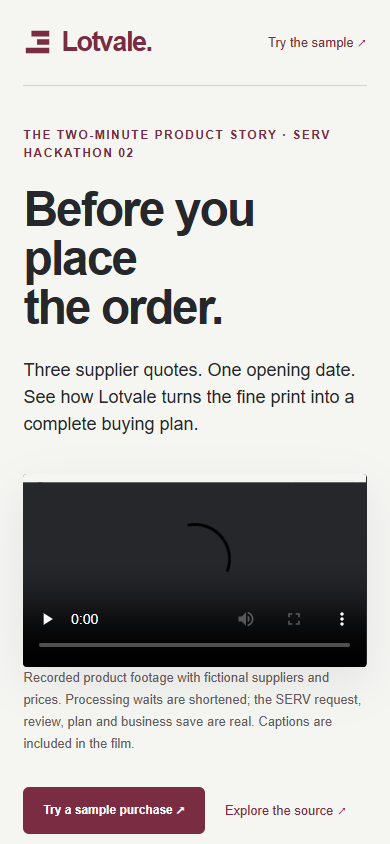
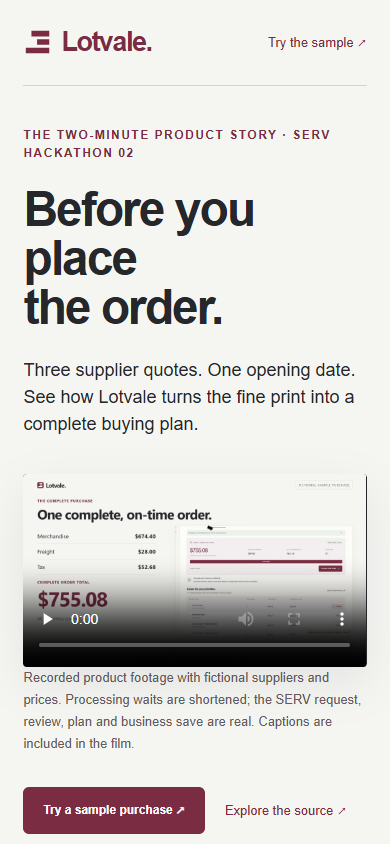
Record verified final production and submission handoff

Changed region(s): [[0.0615, 0.5545, 0.9538, 0.7701]]

diff --git a/reviews/FINAL-JUDGE-REHEARSAL.md b/reviews/FINAL-JUDGE-REHEARSAL.md
@@ -5,33 +5,35 @@ Product checks passed against production application commit 1543a8b, Vercel depl
 ## Product acceptance
 
 - Signed-out sample: complete on-time basket **$755.08**, matching downloaded supplier draft.
-- Date-fresh fixture downloads: two quotes before import, Counter quote generated for today, no-store; invalid kind rejected with400.
-- Actual text-file import and SERV request returned200, four unconfirmed offers, request **chatcmpl-Ek8oqxY0LbrJg3ioDKeMdjVdIzgl6**, model gpt-5.4-mini-2026-03-17.
-- Original quote expanded and terms reviewed; review checkbox initially unchecked; explicit confirmation and Save reviewed quote produced the expected755.08 plan and matching draft/CSV. The provider's four nonverbatim source excerpts were cleared and surfaced as warnings; the complete original text remained available for review. No warning was silently treated as evidence.
-- Backup downloaded, starting fixture restored, actual SERV-backed backup restored, request ID and three quotes preserved; reload rebuilt755.08.
-- Mobile390×844: demo and app both document width390, no horizontal overflow.
+- Date-fresh fixture downloads: two quotes before import, Counter quote generated for today, no-store; invalid kind rejected with HTTP 400.
+- Actual text-file import and SERV request returned HTTP 200, four unconfirmed offers, request **chatcmpl-Ek8oqxY0LbrJg3ioDKeMdjVdIzgl6**, model gpt-5.4-mini-2026-03-17.
+- Original quote expanded and terms reviewed; review checkbox initially unchecked; explicit confirmation and Save reviewed quote produced the expected $755.08 plan and matching draft/CSV. The provider's four nonverbatim source excerpts were cleared and surfaced as warnings; the complete original text remained available for review. No warning was silently treated as evidence.
+- Backup downloaded, starting fixture restored, actual SERV-backed backup restored, request ID and three quotes preserved; reload rebuilt $755.08.
+- Mobile 390×844: demo and app both document width 390, no horizontal overflow.
 - Signed-out business route required login. Verified fictional QA account signed in; actual browser save → purchase overview → reopen recovered the selected draft workflow and same plan. Sign-out preserved the public sample.
 
 Machine-readable checks: [final-judge-rehearsal.json](final-judge-rehearsal.json). This records sequential browser sessions rather than claiming one uninterrupted take. A first business-navigation attempt timed out and logged a failed chunk load; its counter-observation is retained in previousAttempt. A fresh session then completed the business journey with no page errors. Frequency is unknown; this does not establish a general outage or universal reliability.
 
 ## Film and public delivery
 
-[Public film and walkthrough](https://lotvale.vercel.app/demo). Primary streaming file: [Vercel1080p rendition](https://lotvale-demo-video.vercel.app/lotvale-demo-stream.mp4). Master: [27.12MB MP4](https://lotvale-demo-video.vercel.app/lotvale-demo.mp4). Download/source archive: [GitHub Release](https://github.com/ShalyX/lotvale/releases/tag/demo-v1.0.0).
+[Public film and walkthrough](https://lotvale.vercel.app/demo). Primary streaming file: [Vercel 1080p rendition](https://lotvale-demo-video.vercel.app/lotvale-demo-stream.mp4). Master: [27.12MB MP4](https://lotvale-demo-video.vercel.app/lotvale-demo.mp4). Download/source archive: [GitHub Release](https://github.com/ShalyX/lotvale/releases/tag/demo-v1.0.0).
 
-The actual public streaming URL completed **0→120 seconds at rate1**, 1920×1080,3600 decoded frames, ended true, media error0. See [final-film-delivery.json](final-film-delivery.json) and final-film-playing.png. The8.94MB rendition preserves the approved story, timing and motion; full local decode passed and the source-review frame remained legible. Its SHA-256 is1acdfbca013d87d535a9f4ecbc38b7417ed49931a3a2f5dd2df3308bb7e38f45.
+The actual public streaming URL completed **0→120 seconds at rate 1**, 1920×1080, 3600 decoded frames, ended true, media error 0. See [final-film-delivery.json](final-film-delivery.json) and final-film-playing.png. The 8.94 MB rendition preserves the approved story, timing and motion; full local decode passed and the source-review frame remained legible. Its SHA-256 is1acdfbca013d87d535a9f4ecbc38b7417ed49931a3a2f5dd2df3308bb7e38f45.
 
-The master was previously fully decoded and played locally; its checksum is in DEMO.md. GitHub embedded playback timed out in this session, and initial larger-file Vercel playback checks buffered. A64KB range arrived in12.5seconds during a diagnostic. These observations prompted the smaller streaming rendition; they are not a latency benchmark. Production video deployment dpl_5wo9PqggkeTzk3NNM3mWMTUCyTMb was READY. Media assets for the editable source were anonymously downloaded and their SHA-256 verified by demo/scripts/fetch-assets.mjs.
+The master was previously fully decoded and played locally; its checksum is in DEMO.md. GitHub embedded playback timed out in this session, and initial larger-file Vercel playback checks buffered. A 64 KB range arrived in 12.5 seconds during a diagnostic. These observations prompted the smaller streaming rendition; they are not a latency benchmark. Production video deployment dpl_5wo9PqggkeTzk3NNM3mWMTUCyTMb was READY. Media assets for the editable source were anonymously downloaded and their SHA-256 verified by demo/scripts/fetch-assets.mjs.
 
 ## Source and release hygiene
 
-TypeScript,15 planner/export tests and a production build passed from an isolated source snapshot using the installed dependencies. Local clean npm ci attempts failed with ECONNRESET/EIDLETIMEOUT; no local clean-install pass is claimed. Vercel's npm ci installed119 packages and its production build/typecheck passed. The Neon dependency tree emits peer-version warnings, with no change to the previously verified auth behavior.
+TypeScript, 15 planner/export tests and a production build passed from an isolated source snapshot using the installed dependencies. Local clean npm ci attempts failed with ECONNRESET/EIDLETIMEOUT; no local clean-install pass is claimed. Vercel's npm ci installed 119 packages and its production build/typecheck passed. The Neon dependency tree emits peer-version warnings, with no change to the previously verified auth behavior.
 
-Configured-secret scan of tracked source, Git history and39 new client assets found no matches; only.env.example is tracked. The final scan result is in final-source-audit.json. Rejected prototype files and local voice tests were preserved and excluded from Git/Vercel. No user files were deleted and no branch history was rewritten.
+Configured-secret scan of tracked source, Git history and 39 new client assets found no matches; only .env.example is tracked. The final scan result is in final-source-audit.json. Rejected prototype files and local voice tests were preserved and excluded from Git/Vercel. No user files were deleted and no branch history was rewritten.
 
 ## Submission status and limits
 
-The official page and full live Typeform definition were inspected November14. Public source, demo, short write-up and a public X post are required. The post must tag@openservai per the form welcome. Deadline: November15,2026 at23:59UTC. No published video-duration restriction was found. Applicant answers and prepared form copy remain private.
+The official page and full live Typeform definition were inspected November 14. Public source, demo, short write-up and a public X post are required. The post must tag @openservai per the form welcome. Deadline: November 15, 2026 at 23:59 UTC. No published video-duration restriction was found. Applicant answers and prepared form copy remain private.
 
 **No X post or form submission has occurred. No receipt is claimed.** Optional marketing and feedback-quotation consents are not preapproved. The applicant confirmed data collection is disabled; the organization setting was left unchanged.
 
 All purchase examples are fictional. Testing does not establish customer demand, supplier inventory, actual savings, inbox placement across all providers or security certification. One owner per business, explicit cloud save, six items/quotes, one currency and the documented commercial model remain the supported scope.
+
+Final presentation release **67ae915**, Vercel READY **dpl_2z7SZdPwhc3MdHn742BoaAbRHznV**: the actual /demo page selected the smaller streaming URL with preload none and started playback; public poster returned200; mobile stayed within390px; sample rebuilt755.08; anonymous business API returned401. See [final-release-smoke.json](final-release-smoke.json). The later evidence-only repository commit does not change application behavior.

diff --git a/README.md b/README.md
@@ -100,7 +100,7 @@ Built by ElseMade for SERV Hackathon 02. MIT license for original project code; 
 
 ## Business backend setup
 
-Use the ignored .env.local variables shown in .env.example: DATABASE_URL, NEON_AUTH_BASE_URL and a random NEON_AUTH_COOKIE_SECRET of at least32characters. Enable managed Neon Auth and allow the exact app origin, then run npm run db:migrate. The Next.js auth proxy owns sessions; business APIs authenticate and scope every query to the owner. Do not expose database credentials to the browser.
+Use the ignored .env.local variables shown in .env.example: DATABASE_URL, NEON_AUTH_BASE_URL and a random NEON_AUTH_COOKIE_SECRET of at least 32 characters. Enable managed Neon Auth and allow the exact app origin, then run npm run db:migrate. The Next.js auth proxy owns sessions; business APIs authenticate and scope every query to the owner. Do not expose database credentials to the browser.
 
 For integration acceptance, start the app and run npm run test:business with LOTVALE_TEST_URL set to that exact trusted origin (default http://127.0.0.1:5180). Supply two disposable, already verified QA accounts through LOTVALE_TEST_EMAIL, LOTVALE_TEST_OTHER_EMAIL and LOTVALE_TEST_PASSWORD. This checks persistence, owner isolation, stale-write protection and sign-in/out; never use customer accounts.
 
